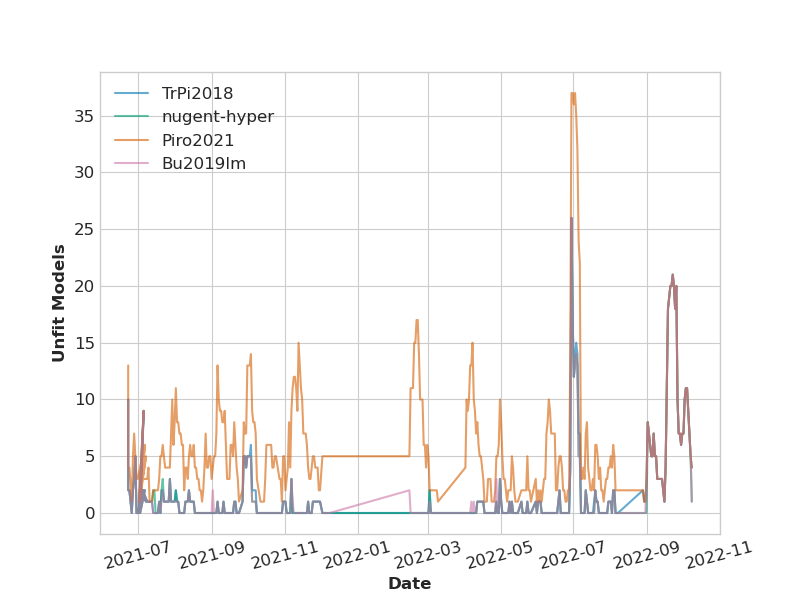
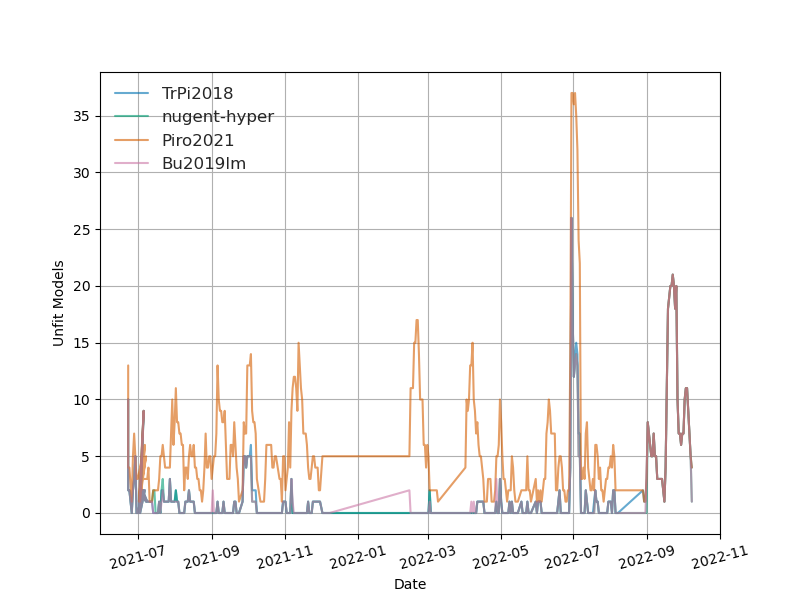
frac fit plot

diff --git a/stats.py b/stats.py
@@ -30,6 +30,8 @@ from astropy.time import Time
 plt.style.use("seaborn-colorblind")
 mpl.rcParams.update({"axes.grid" : True})
 plt.style.context(("seaborn-colorblind",))
+# mpl.rcParams['text.usetex'] = True
+# mpl.rcParams['text.latex.preamble'] = [r'\usepackage{amsmath}']
 
 ## argument for folder to run stats on
 parser = argparse.ArgumentParser()
@@ -540,6 +542,20 @@ def plotUnfit(df, models= args.models, save=True): ## assumes use of dataframe
     ax.legend()
     plt.savefig(plotDir("numDailyUnfit")) if save else None
     plt.clf()
+    
+    ## plot a fraction of how many candidates were fit for each day (fit-unfit)/total
+    fig, ax = plotstyle(figsize=(8,6), facecolor='white')
+    for key, value in unfit.items(): 
+        fracFit = -(fit[key]-value)/allfit[key]
+        ax.plot(dateList, fracFit, label=key, alpha=0.8) if key != 'Total' else None
+    ax.set_xlabel("Date")
+    ax.set_ylabel(r'$\frac{Unfit-Fit}{Total}$')
+    #ax.set_title('Number of Unfit Candidates') ## should these have titles?
+    plt.xticks(rotation=15)
+    ax.legend()
+    plt.savefig(plotDir("fracDailyUnfit")) if save else None
+    plt.clf()
+        
 
     ## should fix styling as it's currently unclear
     ## plot histogram of number of candidates that were not fit for each day by model
@@ -994,11 +1010,11 @@ df = get_dataframe(candDir=args.candDir, models=args.models, save=False, file=ar
 # plotFits(df=df)
 # print('completed cumulative fit plot (2)\n') if args.verbose else None
 
-# plotUnfit(df=df)
-# print('completed unfit candidate plot (3)\n') if args.verbose else None
+plotUnfit(df=df)
+print('completed unfit candidate plot (3)\n') if args.verbose else None
 
 # plotSamplingTimes(df=df)
 # print('completed sampling time plot (4)\n') if args.verbose else None
 
-plotLikelihood(df=df)
-print('completed evidence plot (5)\n') if args.verbose else None
+# plotLikelihood(df=df)
+# print('completed evidence plot (5)\n') if args.verbose else None
